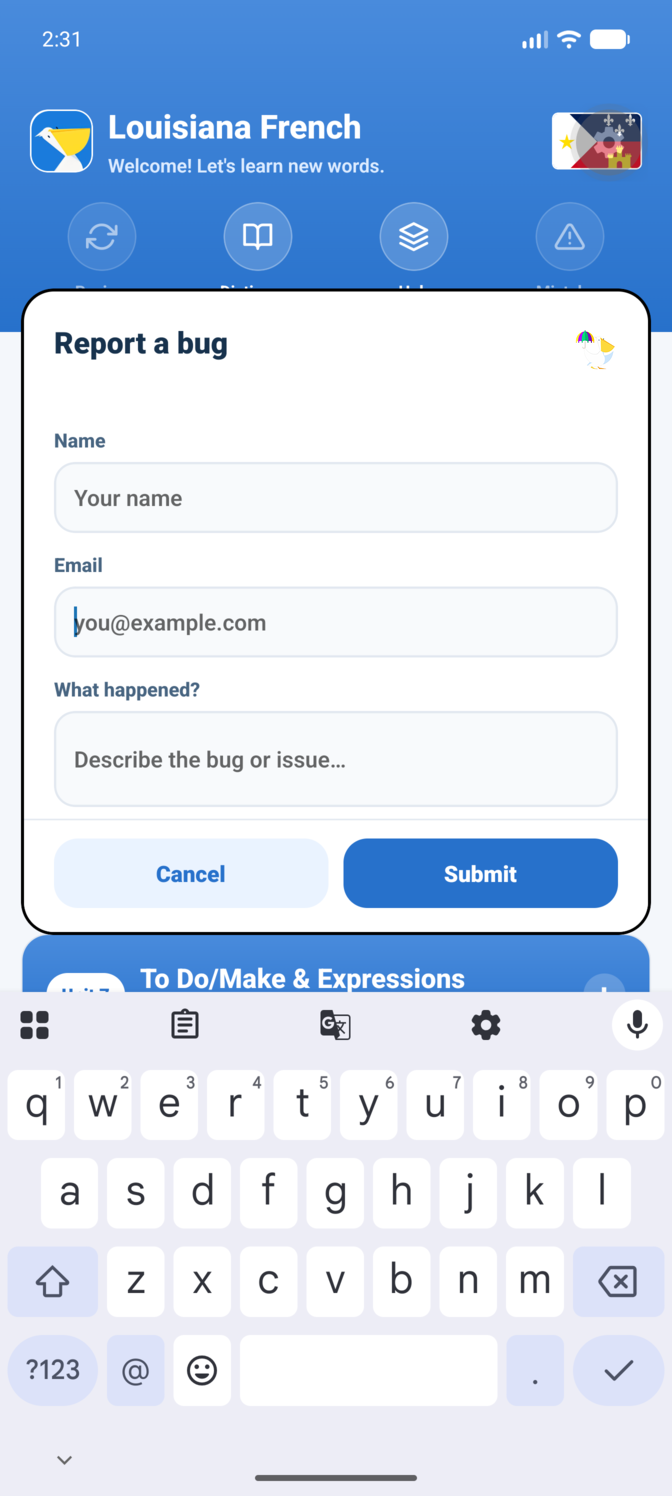
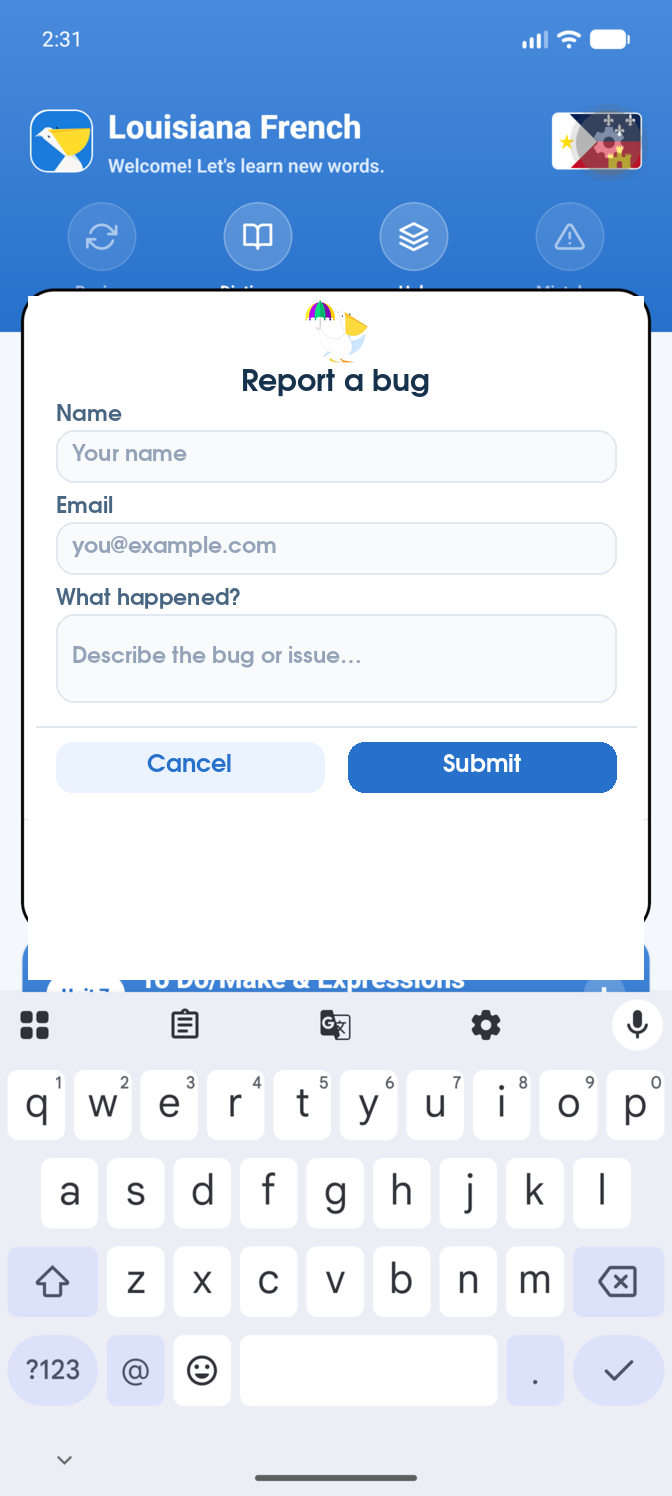
Stack a larger T-Boy above the bug-report title.
Side-by-side forced a tiny pelican; a centered hero matches confirmation and still shrinks when the keyboard opens.

diff --git a/src/components/BugReportFlow.js b/src/components/BugReportFlow.js
@@ -221,13 +221,13 @@ export default function BugReportFlow({ visible, onClose, screenName, language, 
                 contentContainerStyle={styles.content}
               >
                 <View style={[styles.formHeader, keyboardOpen && styles.formHeaderCompact]}>
-                  <Text style={[styles.heading, styles.formHeading]}>Report a bug</Text>
                   <Animated.Image
                     source={require('../../assets/images/secondline.png')}
                     style={[styles.formHero, keyboardOpen && styles.formHeroCompact]}
                     resizeMode="contain"
                     accessibilityLabel="Pelican with Mardi Gras umbrella"
                   />
+                  <Text style={[styles.heading, styles.formHeading]}>Report a bug</Text>
                 </View>
                 <Text style={styles.label}>Name</Text>
                 <TextInput
@@ -332,16 +332,13 @@ const styles = StyleSheet.create({
   },
   content: { paddingHorizontal: 20, paddingTop: 20, paddingBottom: 8 },
   formHeader: {
-    flexDirection: 'row',
-    alignItems: 'flex-start',
-    justifyContent: 'space-between',
-    gap: 12,
-    marginBottom: 12,
+    alignItems: 'center',
+    marginBottom: 4,
   },
-  formHeaderCompact: { marginBottom: 6 },
-  formHeading: { flex: 1, marginBottom: 0, marginTop: 4 },
-  formHero: { width: 64, height: 64 },
-  formHeroCompact: { width: 40, height: 40 },
+  formHeaderCompact: { marginBottom: 0 },
+  formHeading: { marginBottom: 0, marginTop: 4, textAlign: 'center' },
+  formHero: { width: 140, height: 140 },
+  formHeroCompact: { width: 56, height: 56 },
   heading: { fontSize: 20, fontWeight: '900', color: '#17324D', marginBottom: 4 },
   subtitle: { fontSize: 14, fontWeight: '600', color: '#64748B', marginBottom: 16 },
   label: { fontSize: 13, fontWeight: '800', color: '#486581', marginBottom: 6, marginTop: 12 },

diff --git a/docs/evidence/332/README.md b/docs/evidence/332/README.md
@@ -3,7 +3,7 @@
 ## Click path
 
 1. Open Home → About → Support (or Report a bug).
-2. Form stage shows T-Boy beside **Report a bug**; subtitle **Tell us what went wrong.** is gone.
+2. Form stage shows a large centered T-Boy above **Report a bug**; subtitle is gone.
 3. With the keyboard up, the pelican shrinks so Name / Email / What happened? stay on screen.
 
-Grabs are edited from #329 sheet captures with the shipped `secondline.png` composited (same size as prior evidence).
+Composites use the shipped `secondline.png` on the #329 sheet chrome (stacked hero layout).
